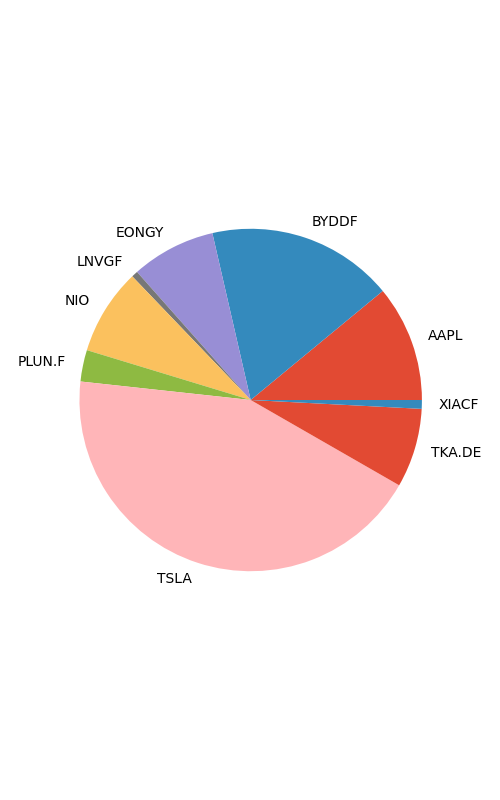
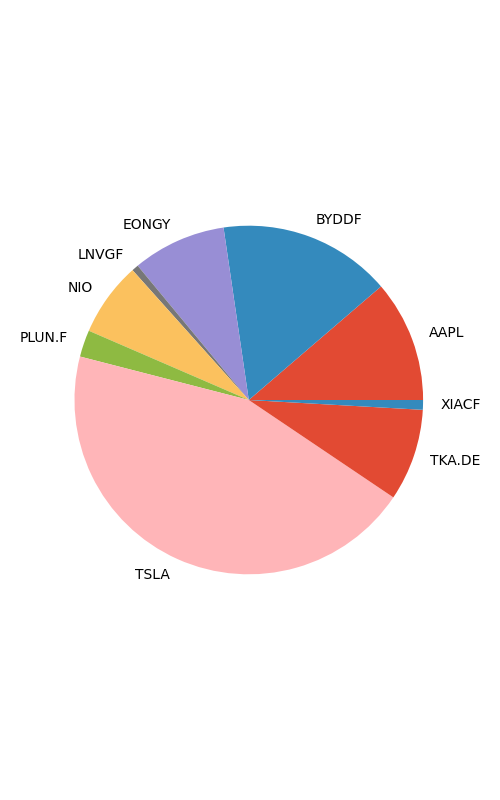
neue implenationen der vier graphen

diff --git a/send_email.py b/send_email.py
@@ -32,25 +32,38 @@ close_df['Month_Year'] = close_df['Month_Year'].dt.to_timestamp()
 tickers = ['AAPL', 'BYDDF', 'EONGY', 'LNVGF', 'NIO', 'PLUN.F', 'TSLA', 'TKA.DE', 'XIACF']
 stock_buy_price = [110.96, 24.95, 11.47, 1.419, 47.81, 45.544, 159.95, 6.799474, 1.6198]
 quantitiy_of_stocks = [1, 9, 11.3111, 10, 10, 5, 3, 19, 10]
+
 #### C A L C I L A T E _ P E R C E N T A G E _ C H A N G E
 
 stock_close_price = close_df.iloc[-1, 1:].tolist()
 percentage_change = [(close_price - buy_price) / buy_price * 100 for close_price, buy_price in zip(stock_close_price, stock_buy_price)]
 percentage_change = [round(change, 2) for change in percentage_change]
 
+sum_of_stocks = [price * quantity for price, quantity in zip(stock_close_price, quantitiy_of_stocks)]
+last_week_data = close_df.tail(7)
 
-#### V I S U A L I Z A T I O N _ O F _ S T O C K S
-fig, ((ax1, ax2), (ax3, ax4)) = plt.subplots(2, 2, figsize=(20, 12))
-plt.subplots_adjust(wspace=0.3, hspace=0.6)  # Horizontale und vertikale Abstände anpassen
 
-bars = ax2.barh(tickers, percentage_change, color = 'tab:blue')
-
+# Daten der letzten Woche vorbereiten
+last_week_data['Date'] = pd.to_datetime(last_week_data['Date'])  # Konvertieren in Datetime-Objekte
+last_week_dates = last_week_data['Date'].dt.strftime('%Y-%m-%d')  # Datum formatieren
+percentage_changes = (last_week_data.iloc[:, 1:-1] / last_week_data.iloc[:, 1:-1].shift(1) - 1) * 100    
 
 bar_labels = [f"{ticker} ({change:.2f}%)" for ticker, change in zip(tickers, percentage_change)]
 bar_colors = ['tab:red', 'tab:blue', 'tab:green', 'tab:orange', 'tab:gray', 'tab:cyan', 'tab:purple', 'tab:pink', 'tab:brown']
 
+#### V I S U A L I Z A T I O N _ O F _ S T O C K S
+fig, ((ax1, ax2), (ax3, ax4)) = plt.subplots(2, 2, figsize=(18, 9))
+fig.suptitle('Gemeinsame Überschrift', fontsize=16, y=0.98, x=0.29)
+plt.subplots_adjust(wspace=0.3, hspace=0.6)  # Horizontale und vertikale Abstände anpassen
+plt.style.use('ggplot')
 # F I R S T _ C H A R T -> Säulen Diagram
-last_week_data = close_df.tail(7)
+ax1.plot(last_week_dates, percentage_changes, marker='o')
+ax1.set_xticks(last_week_dates)  # X-Ticks setzen
+ax1.set_xticklabels(last_week_dates, rotation=45)
+ax1.set_xlabel('Date')
+ax1.set_ylabel('Percentage Change')
+ax1.set_title('Stock Price Performance Last Week')
+# S E C O N D _ P L O T -> Linen Diagramm
 
 # Daten der letzten Woche vorbereiten
 last_week_data['Date'] = pd.to_datetime(last_week_data['Date'])  # Konvertieren in Datetime-Objekte
@@ -68,18 +81,23 @@ ax1.set_title('Stock Price Performance Last Week')
 
 # S E C O N D _ P L O T -> Linen Diagramm
 
-bars = ax2.barh(tickers, percentage_change, color=bar_colors)
-ax2.bar_label(bars, labels=bar_labels, label_type='center')
+# Daten in aufsteigender Reihenfolge sortieren (größte positive Änderung oben)
+sorted_indices = sorted(range(len(percentage_change)), key=lambda k: percentage_change[k])
+sorted_tickers = [tickers[i] for i in sorted_indices]
+sorted_percentage_change = [percentage_change[i] for i in sorted_indices]
+sorted_bar_labels = [bar_labels[i] for i in sorted_indices]
+
+# Balkendiagramm erstellen
+bars = ax2.barh(sorted_tickers, sorted_percentage_change, color=bar_colors)
+ax2.bar_label(bars, labels=sorted_bar_labels, label_type='center')
 ax2.set_xlabel('Percentage Change')
 # X-Achsenbeschriftungen entfernen
 ax2.set_xticklabels([], rotation=45)
 ax2.set_title('Percentage Change over the last two years')
 
 # T H I R D _ P L O T -> Linen Diagramm
-
-
-
-
+ax3.set_title('Share risk distribution')
+ax3.pie(sum_of_stocks, labels=tickers)
 # F O U R T H _ P L O T -> Linen Diagramm
 
 for ticker in tickers:
@@ -88,24 +106,24 @@ ax4.set_xticklabels(close_df['Month_Year'].dt.strftime('%Y-%m') , rotation=45)
 ax4.set_xlabel('Month_Year')
 ax4.set_ylabel('Stock Price')
 ax4.set_title('Stock Prices Over the last two years')
-# ax4.legend(title='Stocks and Percentage Change')
-
+plt.legend(loc='best', mode='expand',ncol=3, bbox_to_anchor=(0,1,1,2), fontsize='small')
 line_chart_image_file_name = 'line_chart_image_file_name.png'
 plt.savefig(line_chart_image_file_name)
+
+
+
 #### S E C O N D _ P L O T _ C R E A T I O N _ O F _ P I E _ C H A R T -> Kuchen Diagramm 
 
 plt.figure(figsize=(5,8))
-plt.title('Share risk distribution')
 plt.pie(sum_of_stocks, labels=tickers)
 plt.tight_layout()
-# plt.legend(loc='upper left', bbox_to_anchor=(1, 1))  # Legende außerhalb des Diagramms platzieren
 pie_image_file_name = 'share_risk_distribution.png'
-plt.savefig(pie_image_file_name,dpi = 200)
+plt.savefig(pie_image_file_name)
 
 # S A V E _ A S _ I M A G E
 
 image_file_name = 'stock_prices.png'
-plt.savefig(image_file_name, dpi = 200)
+plt.savefig(image_file_name)
 plt.show()
 
 #### S E N D I N G _ E - M A I L ####
